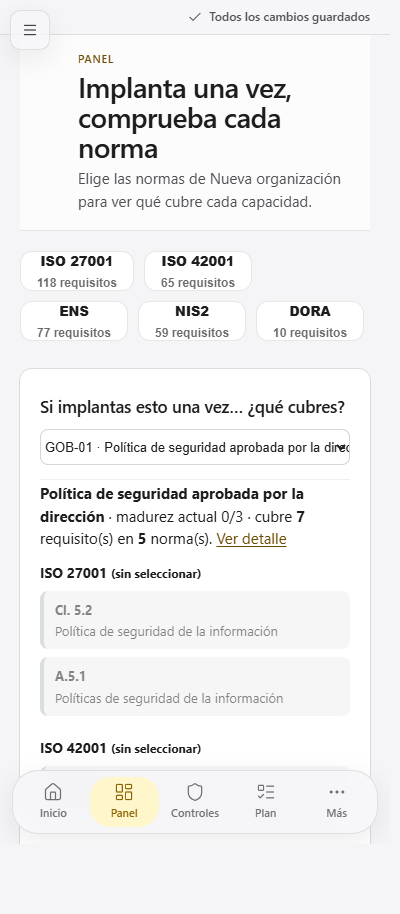
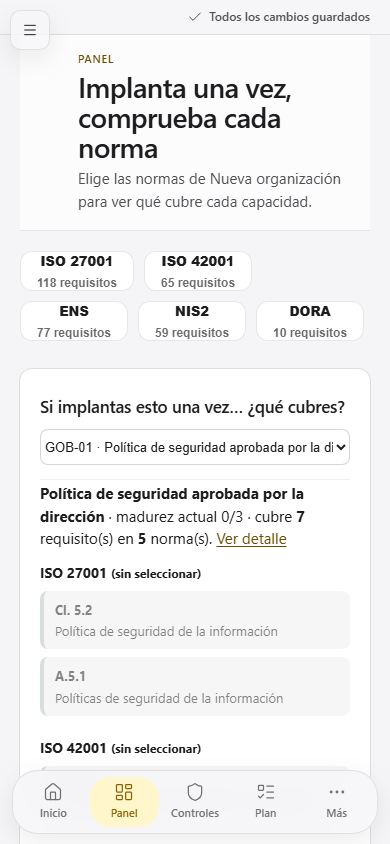
Docs: README con intro visible, capturas reales y roles
Sustituye capturas defectuosas por pantallazos Playwright (escritorio/móvil), añade GIF de la intro y enlace directo al MP4; deja claros los encargos de heindall92 e Himardlg.

diff --git a/README.md b/README.md
@@ -1,121 +1,110 @@
 # Nexus GRC Lion
 
 <p align="center">
-  <img src="assets/lion-mark.png" alt="Nexus GRC Lion" width="96"/>
+  <img src="assets/lion-mark.png" alt="Nexus GRC Lion" width="120"/>
 </p>
 
 <p align="center">
-  <b>Herramienta local de apoyo GRC multinorma</b> — evaluación, madurez, riesgos, evidencias, auditorías, correspondencias requisito–control y planes de acción.<br/>
-  Corre en el navegador; los datos se quedan en el dispositivo (<code>localStorage</code>).
+  <b>Herramienta local de apoyo GRC multinorma</b><br/>
+  Evaluación, madurez, riesgos, evidencias, auditorías, correspondencias y planes de acción.<br/>
+  Corre en el navegador · los datos no salen del dispositivo.
 </p>
 
 <p align="center">
   <img alt="Licencia GPLv2" src="https://img.shields.io/badge/LICENCIA-GPLv2-4169A1?style=flat"/>
   <img alt="UI ES/EN" src="https://img.shields.io/badge/UI-ES%20%2F%20EN-f3bc25?style=flat&labelColor=1d1d1f"/>
   <img alt="Local-first" src="https://img.shields.io/badge/datos-local--first-2E8B57?style=flat"/>
-  <img alt="Iconos Lucide" src="https://img.shields.io/badge/iconos-Lucide-F56565?style=flat"/>
   <img alt="Versión" src="https://img.shields.io/badge/versión-1.19.2-1d1d1f?style=flat"/>
 </p>
 
 ---
 
-## Intro
+## Intro (vídeo)
+
+> GitHub no reproduce bien un `.mp4` relativo en el README. Aquí va la intro en **GIF** (se ve al instante) y el **vídeo completo** en el repo.
 
 <p align="center">
-  <a href="assets/intro.mp4">
-    <img src="docs/img/readme/intro-poster.png" alt="Intro cinematográfica Nexus GRC Lion" width="880"/>
+  <a href="https://github.com/Himardlg/lion-grc-nexus/blob/rama_heindall92/assets/intro.mp4">
+    <img src="docs/img/readme/intro-preview.gif" alt="Intro Nexus GRC Lion — vista previa animada" width="880"/>
   </a>
 </p>
 
 <p align="center">
-  <video src="assets/intro.mp4" controls playsinline muted poster="docs/img/readme/intro-poster.png" width="880">
-    Tu navegador no reproduce el vídeo embebido. Ábrelo aquí: <a href="assets/intro.mp4">assets/intro.mp4</a>
-  </video>
+  <b><a href="https://github.com/Himardlg/lion-grc-nexus/raw/rama_heindall92/assets/intro.mp4">▶ Ver / descargar el vídeo completo (MP4)</a></b><br/>
+  <sub>También en el repo: <code>assets/intro.mp4</code> · ~10 s · marca Lion</sub>
 </p>
 
-<p align="center"><sub>Intro de marca Lion (vídeo en el repositorio). En móvil el fondo hace fundido negro → amarillo alineado con el vídeo.</sub></p>
-
 <p align="center">
-  <img src="docs/img/readme/intro-mid.png" alt="Fotograma del león geométrico en la intro" width="720"/>
+  <img src="docs/img/readme/intro-poster.png" alt="Fotograma final de la intro" width="720"/>
 </p>
 
 ---
 
 ## Capturas
 
-<p align="center">
-  <img src="docs/img/readme/panel-desktop.png" alt="Panel multinorma en escritorio" width="880"/>
-</p>
-
-<p align="center"><sub>Escritorio — panel multinorma, marca Lion y acento amarillo.</sub></p>
+### Escritorio — panel multinorma
 
 <p align="center">
-  <img src="docs/img/readme/panel-mobile.png" alt="Panel multinorma en móvil (390px)" width="390"/>
+  <img src="docs/img/readme/panel-desktop.png" alt="Nexus GRC Lion — panel multinorma en escritorio" width="100%"/>
 </p>
 
-<p align="center"><sub>Móvil (~390 px) — barra inferior, menú hamburguesa y panel adaptado.</sub></p>
+### Móvil (390 px)
+
+<p align="center">
+  <img src="docs/img/readme/panel-mobile.png" alt="Nexus GRC Lion — panel en móvil 390px" width="390"/>
+</p>
 
 ---
 
 ## Quién hace qué
 
-Trabajo en paralelo, sin pisar la misma zona del código. Referencia de reparto:
+| Persona | GitHub | De qué se encarga |
+|--------|--------|-------------------|
+| **Yoandy Ramirez Delgado** | [`heindall92`](https://github.com/heindall92) | **Diseño, UX/UI y marca Lion** — tipografía/materiales, acento amarillo, logo y favicon, intro, responsive móvil, shell, iconos Lucide. También **catálogo / sync** derivado de Rosetta Multinorma. |
+| **Himardlg** | [`Himardlg`](https://github.com/Himardlg) | **Funcionalidades GRC y producto** — empresas, motor de cobertura/madurez, SoA, riesgos, evidencias, auditorías, planes, export/import, respaldos, buscador e informes. |
 
-| Persona | GitHub | Encargo |
-|--------|--------|---------|
-| **Yoandy Ramirez Delgado** | [`heindall92`](https://github.com/heindall92) | **Diseño, UX/UI y marca Lion** — tipografía y materiales, acento amarillo, logo/favicon, intro, responsive móvil (390 px), shell lateral, iconografía Lucide, alineación visual con Rosetta. También **catálogo / sincronización** derivada de Rosetta Multinorma cuando toque actualizar mapeos. |
-| **Himardlg** | [`Himardlg`](https://github.com/Himardlg) | **Funcionalidades GRC y producto** — empresas/proyectos, motor de cobertura y madurez, SoA, riesgos, evidencias, auditorías, planes de acción, export/import y respaldos, buscador, informes y nuevas capacidades de negocio. |
+### Esta rama (`rama_heindall92`)
 
-### En esta rama (`rama_heindall92`)
+Trabajo de **Yoandy / heindall92** para revisión (no mergeado a `main` todavía):
 
-Aportación de **Yoandy / heindall92** para revisión (sin tocar `main` hasta el merge):
+- Marca Nexus GRC Lion (logo, favicon, intro)
+- Acento amarillo de producto
+- Intro + fundido negro→amarillo en móvil
+- UI móvil / shell
+- README con intro visible, capturas y roles
 
-- Marca **Nexus GRC Lion** (logo, favicon, intro)
-- Acento amarillo de producto (sustituye el verde de marca)
-- Intro con fundido negro→amarillo en móvil
-- Ajustes de UI móvil y shell
-- README con vídeo, capturas y roles
-
-### Origen del motor / catálogo
-
-El catálogo unificado y las correspondencias iniciales se basan parcialmente en [Rosetta Multinorma](https://github.com/heindall92/rosetta_multinorma) (**GPL-2.0**, heindall92). Ver `LICENSE` y `NOTICE.md`.
+**Origen del catálogo:** [Rosetta Multinorma](https://github.com/heindall92/rosetta_multinorma) (GPL-2.0). Ver `LICENSE` y `NOTICE.md`.
 
 ---
 
-> **Estado:** versión candidata para pruebas. No es una plataforma certificadora ni un dictamen jurídico. Valida el catálogo y cada correspondencia contra la fuente oficial vigente.
+> **Estado:** candidata a pruebas. No es certificadora ni dictamen jurídico. Valida correspondencias contra la fuente oficial.
 
 ## Inicio rápido
 
-- **Sin instalación:** abre `index.html` con un navegador moderno (mejor servirla en local: `npx serve`).
-- **Versión autocontenida:** abre `dist/nexus.html`.
-- **Pruebas:** `npm test` (requiere Node.js).
-- **Rebuild autocontenido:** `npm run build`.
+```bash
+npx --yes serve -l 4192 .
+```
+
+Abre `http://localhost:4192/` · o `index.html` / `dist/nexus.html`.
+
+```bash
+npm test
+npm run build
+```
 
 ## Funcionalidades
 
-- Empresas y proyectos separados en el mismo navegador
-- Selección de marcos y evaluación de requisitos/controles
-- Niveles orientativos de madurez
-- Panel multinorma, comparador, matriz de correspondencias y CSV
+- Empresas y proyectos locales
+- Marcos, requisitos, controles y madurez
+- Panel multinorma, comparador, matriz y CSV
 - Riesgos, evidencias, auditorías y acciones
-- Exportación/importación y respaldo completo
-- Tema claro/oscuro e interfaz ES/EN (chrome del menú)
+- Export/import y respaldo completo
+- Tema claro/oscuro · ES/EN (menú)
 
-## Privacidad y límites
+## Privacidad
 
-- Sin cuenta ni servidor: datos en `localStorage`
-- Sin sincronización entre dispositivos
-- Exporta respaldos de forma periódica; no guardes secretos ni datos personales innecesarios en la app
-- La app no cifra el almacenamiento local por sí misma
-
-## Marcos referenciados
-
-- ISO/IEC 27001:2022 — [ISO](https://www.iso.org/standard/27001)
-- ISO/IEC 42001:2023 — [ISO](https://www.iso.org/standard/42001)
-- ENS, RD 311/2022 — [BOE](https://www.boe.es/eli/es/rd/2022/05/03/311)
-- NIS2, (UE) 2022/2555 — [EUR-Lex](https://eur-lex.europa.eu/eli/dir/2022/2555/oj?locale=es)
-- DORA, (UE) 2022/2554 — [EUR-Lex](https://eur-lex.europa.eu/eli/reg/2022/2554/oj?locale=es)
+Sin servidor ni cuenta. Datos en `localStorage`. Exporta respaldos; no guardes secretos en la app.
 
 ## Licencia
 
-GNU GPL v2 — ver `LICENSE`. Historial en [CHANGELOG.md](CHANGELOG.md).
+GNU GPL v2 — `LICENSE`. Historial: [CHANGELOG.md](CHANGELOG.md).
